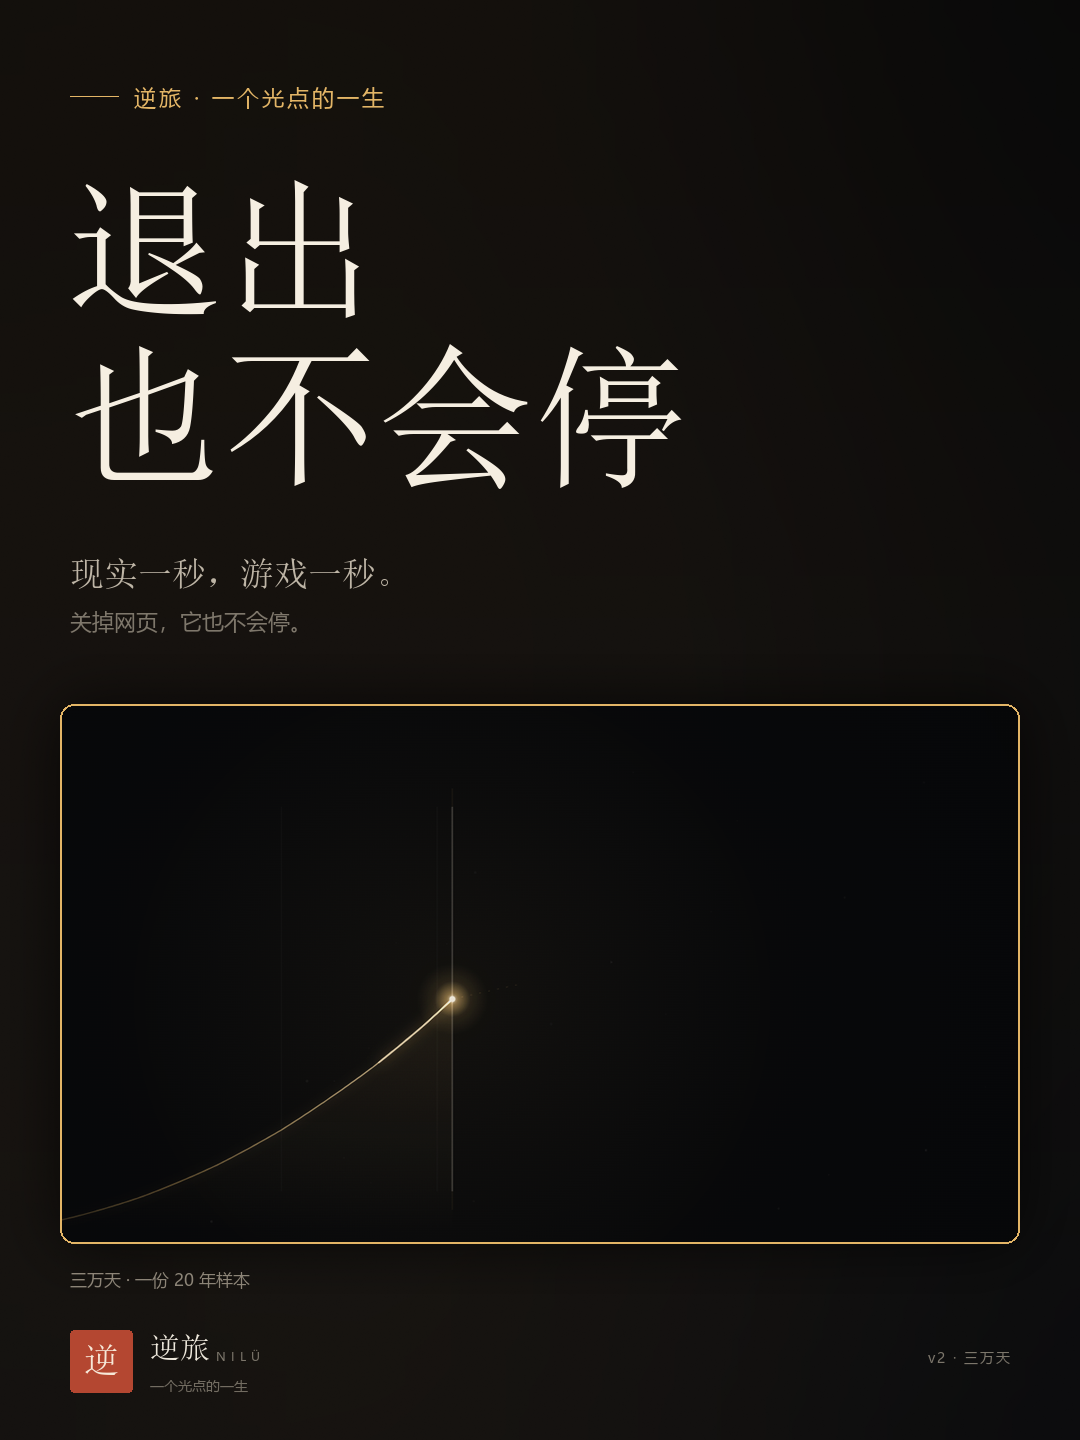
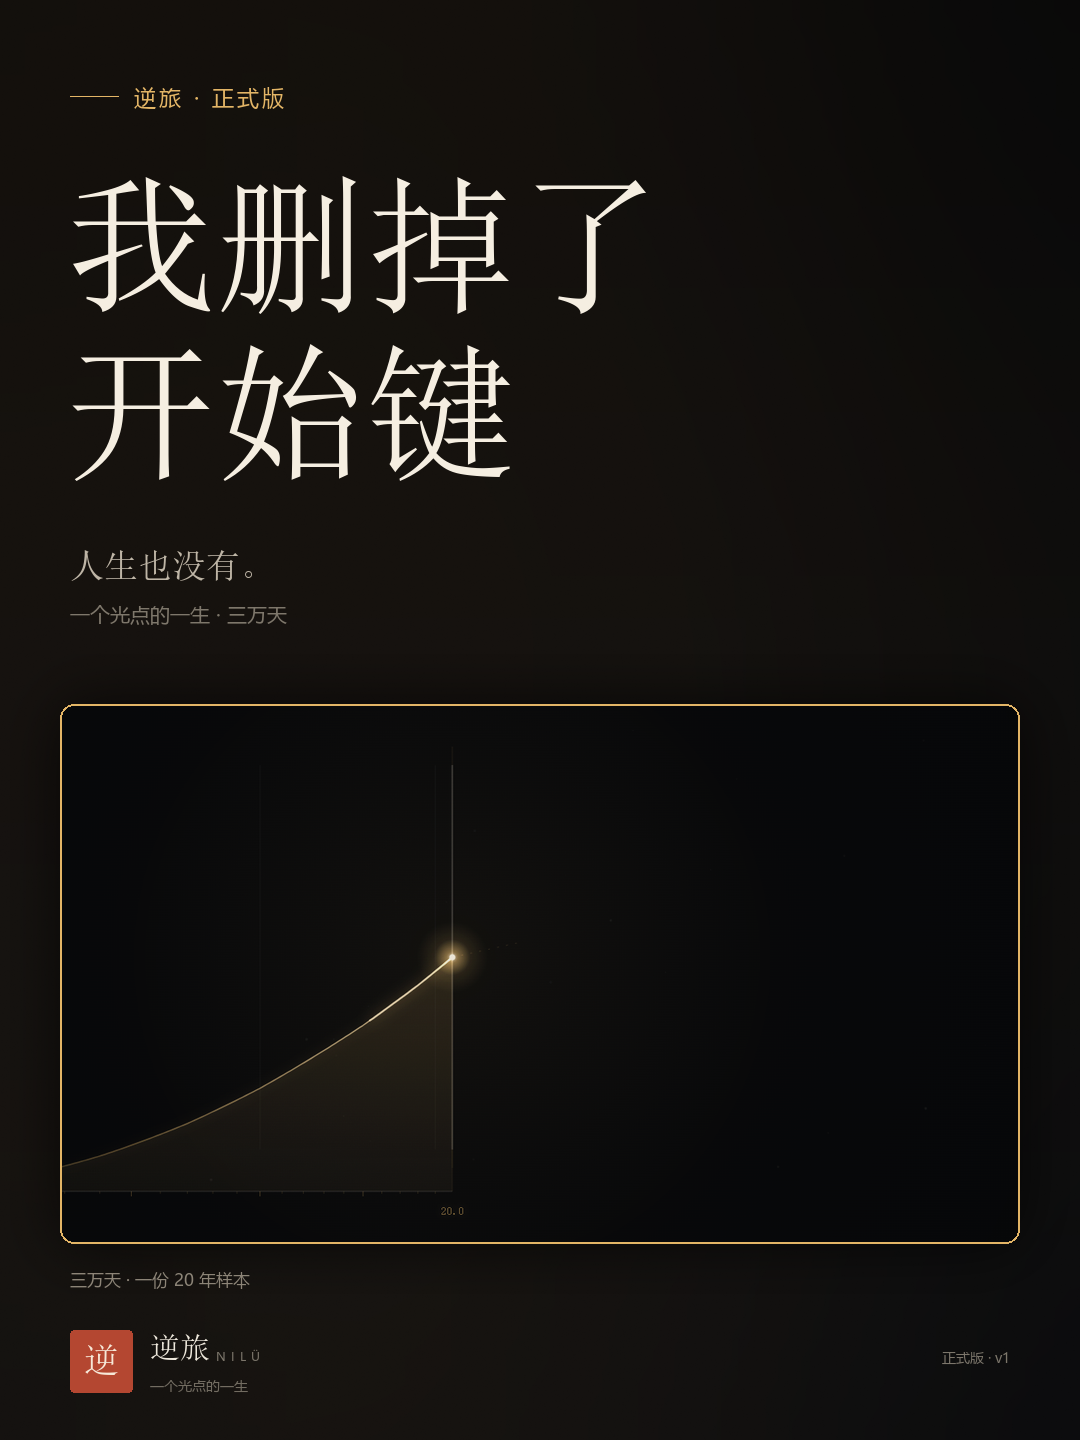
docs(xhs): 正式版第一篇《我删掉了开始键》

diff --git a/docs/xhs/01-我删掉了开始键.md b/docs/xhs/01-我删掉了开始键.md
@@ -1,0 +1,53 @@
+# 我删掉了开始键
+
+做这个游戏之前，我先做了一个 60 秒的版本。
+
+60 秒到了，光点停下，屏幕出现分数。我发现自己一点也不难过。因为可以重开。
+重开太容易了，死亡就像一次暂停。
+
+后来我把「开始」删了。
+打开页面，光点已经在了。
+没有教程，没有说明，没有「点击开始」。
+它就在屏幕正中央，一秒老一秒。
+右上角的数字慢慢变大，那是它走过的面积。
+
+我又把时间改成了现实时间。
+关掉网页，它不会停。
+你隔很久再打开，它已经往前走了很远。
+你走的时候，它也在走。
+
+底部有一条年龄轴，贴着面积的底边。
+起点钉在页面最左边，0 不写出来。
+刻度越来越密，像时间在往光点脚下挤。
+只有光点正下方，一个年龄数字在轻轻跳。
+
+页面只有三个动作。
+
+快进。
+人可以跳过等待，直接去看结果。
+但快进不会让你更努力，它只是把现在的高度，乘以更多时间。
+你努力过，快进会放大它；
+你没努力，快进只是让你更快到终点。
+
+努力。
+第一次要按十个方向键，之后每成功一次多一个，没有上限。
+没有倒计时，但必须按对。
+按错，重新点「努力」，从头再来。
+我不想把努力做成反应测试。
+努力更像是在某个下午，决定认真做一件事。
+
+结束。
+点下去之前会问一次：结束即注销，不能再回来。
+确认之后，光点缩小，轨迹淡出，屏幕变黑。
+不能在这个页面重开，只能关掉网页。
+
+这是正式版第一版。
+它不问你这一生有没有意义。
+它只把你花掉的时间和抬过的头，画成一条线，
+然后让线下面的数字一直涨。
+
+三万天。
+一个光点。
+没有开始键。
+
+#独立游戏 #人生感悟 #逆旅 #治愈系游戏 #我在做游戏 #游戏设计 #时间

diff --git a/docs/xhs/README.md b/docs/xhs/README.md
@@ -1,22 +1,22 @@
-# 小红书 · 逆旅 v2
+# 小红书 · 逆旅正式版
 
 这一版只写一篇。不拆成开发者说明，也不给多个标题让人挑。
 
 ## 笔记
 
-- 标题：**退出也不会停**
-- 正文：[01-退出也不会停.md](01-退出也不会停.md)
+- 标题：**我删掉了开始键**
+- 正文：[01-我删掉了开始键.md](01-我删掉了开始键.md)
 - 封面：[assets/01-cover.png](assets/01-cover.png)
 - 尺寸：1080 × 1440（3:4）
 - 建议发布：周五或周日 20:00–22:00
 
 ## 置顶评论
 
-> 截图里是一份 20 年的测试样本，方便看见轨迹。你第一次打开时，它从第 0 天开始，页面是空的。
+> 截图里是一份 20 年的测试样本，方便看见轨迹和年龄轴。你第一次打开时，它从第 0 天开始，页面是空的。
 
 ## 发布时注意
 
-- 截图里的「118,516,314,050,811」是本地测试样本，不是真实用户数据，不要写成别人的成绩。
+- 截图里的「118,526,409,660,323」是本地测试样本，不是真实用户数据。
 - 线上 demo 目前是本机模式（成绩只在这台设备）。账号版需要部署 API；这篇不展开技术细节。
 - 语气保持第一人称，不写「重磅」「全网首个」「绝对防作弊」。
 - 标签固定：#独立游戏 #人生感悟 #逆旅 #治愈系游戏 #我在做游戏 #游戏设计 #时间
@@ -24,7 +24,7 @@
 ## 素材
 
 - `assets/01-cover.png`：3:4 封面
-- `../assets/life.png`：页面截图（20 年样本）
+- `../assets/life.png`：页面截图（20 年样本，带年龄轴）
 - `../assets/fast.png`：快进界面
 - `../assets/mobile.png`：手机端
 
